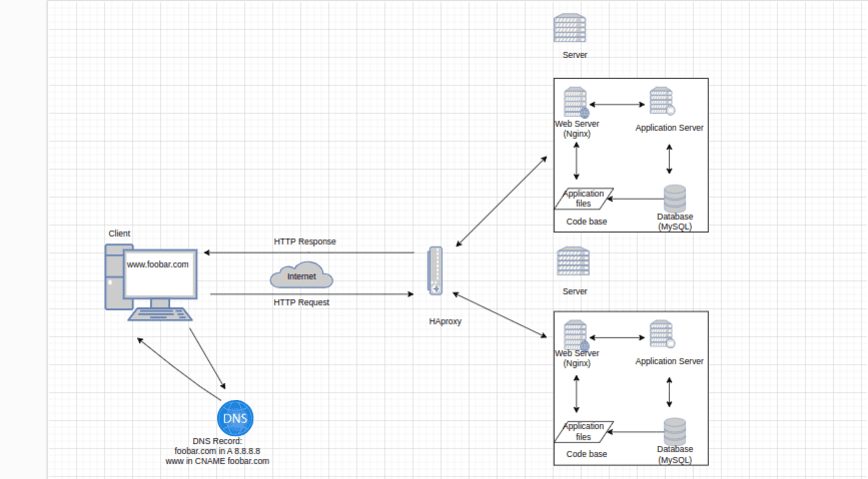
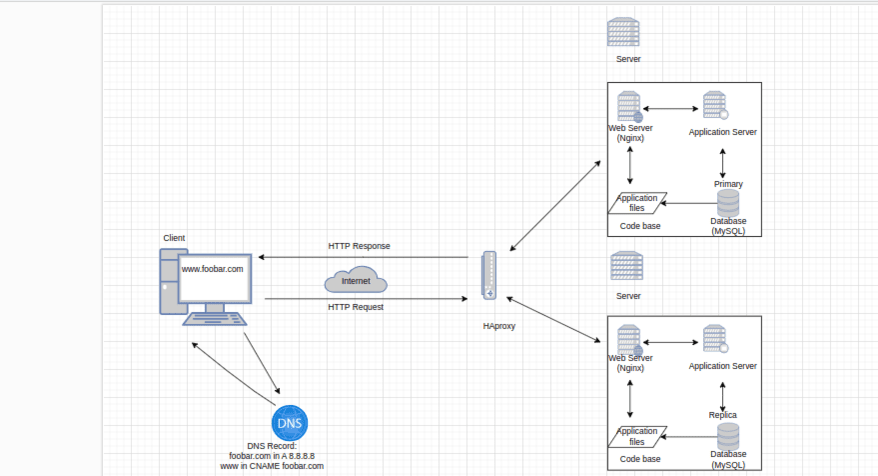
doc: Distributed web infrastructure

diff --git a/0x09-web_infrastructure_design/documentation/1-distributed_web_infrastructure.md b/0x09-web_infrastructure_design/documentation/1-distributed_web_infrastructure.md
@@ -1,0 +1,32 @@
+0x09. Web infrastructure design
+===============================
+
+# Task 1
+
+## Explanations
+
+- **For every additional element, why you are adding it:**
+To improve its performance or handle higher workloads.
+- **What distribution algorithm your load balancer is configured with and how it works:**
+The Load Balancer has different algorithms for how it divides up the workload, such as:
+    - Round Robin - Requests are sequenciaaly distributed to the next server in a circular manner.
+    - Least Connections -Directs new requests to the server with the fewest active connections.
+    - IP Hash - The IP address of the client is used to determine which server the request will be directed to after calculating the hash value based on client's IP addresses.
+    - Least response time - Considers response time of servers and directs the response to the server with the lowest response time.
+- **Is your load-balancer enabling an Active-Active or Active-Passive setup, explain the difference between both:**
+Load balancers operates in either of these two modes:
+    - Active-Active: All resources linked to the load balancer are active and running. It distributes traffic among resources using the selected distribution algorithm. This mode offers high scalability, utilization, and fault tolerance but can be complex to manage.
+    - Active-Passive: In this mode, one resource runs while others are on standby. They come into play when the primary resource fails. While offering high availability, it has a failover time, causing brief service interruptions.
+- **How a database Primary-Replica (Master-Slave) cluster works:**
+A database Primary-Replica (Master-Slave) cluster aka master-slave is a database architecture divided into a master database and slave databases. The slave database serves as the backup for the master database. The master database is used for the write operations, while read operations may be spread on multiple slave databases.
+- **What is the difference between the Primary node and the Replica node in regard to the application:**
+The primary node handles all operations (CRUD), while the replica node is read-only
+
+## Issues:
+- **Where are SPOF:**
+They are in DNS as there may be DNS spoofing attacks.
+- **Security issues (no firewall, no HTTPS):**
+    - Firewall - Absence of a firewall means less security based on preconfigured rules in the hardware or software, no analyzing data packets that request entry to the network.
+    - HTTPS - The data exchange is not secure as we are using HTTP protocol switching to HTTPS ensures encryption to secure data exchange between the clinet and the web server.
+- **No monitoring:**
+Sotfware monitoring will watch computer metrics, record them, and emit an alert if something is unusual or that could make the computer not work properly happens.
